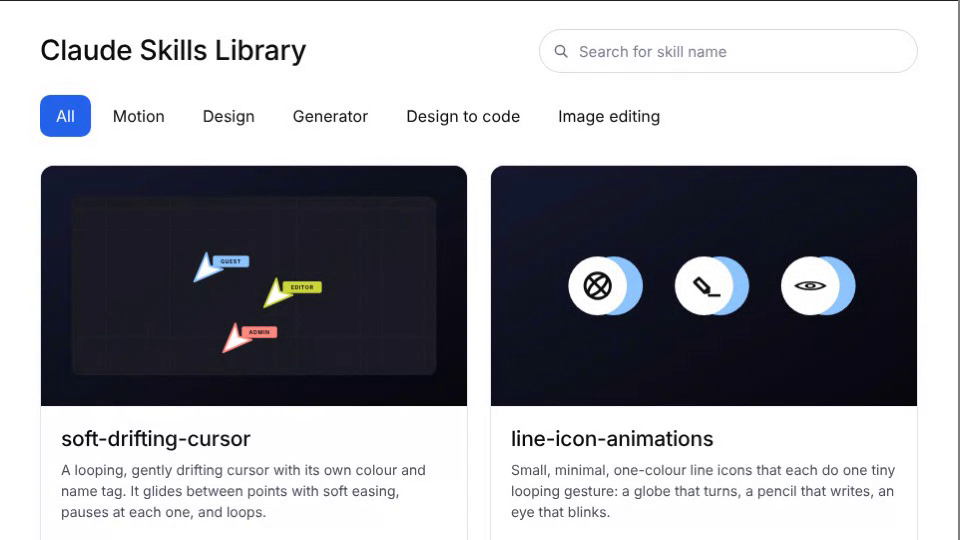
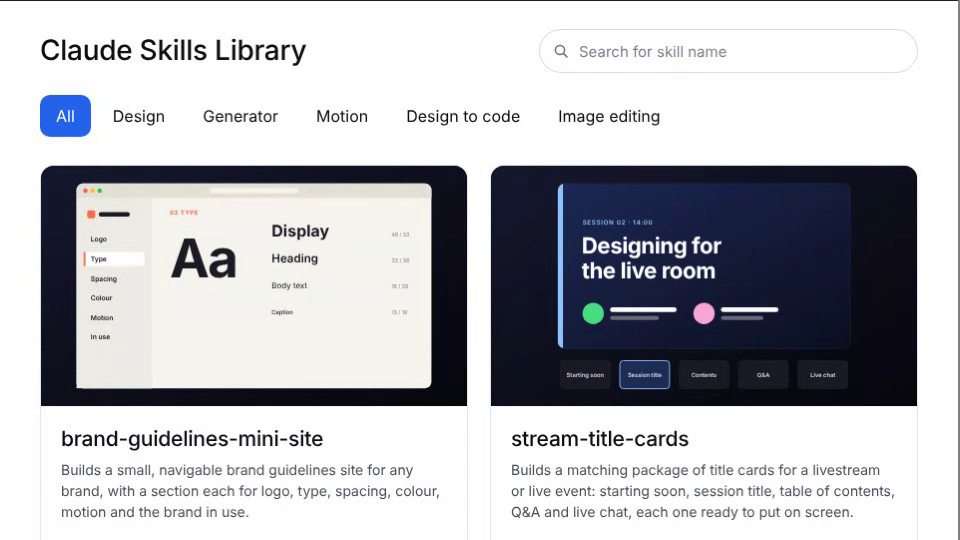
Skills Library: stream-title-cards and brand-guidelines-mini-site entries (#796)
* Skills Library: stream-title-cards entry (starting soon, session title, contents, Q&A, live chat)

Claude-Session: https://claude.ai/code/session_016rpgubnqZgbgFVCTgTmm7G

* Skills Library: brand-guidelines-mini-site entry (logo, type, spacing, colour, motion, in use)

Claude-Session: https://claude.ai/code/session_016rpgubnqZgbgFVCTgTmm7G

---------

diff --git a/skills-library/index.html b/skills-library/index.html
@@ -145,6 +145,22 @@ var ICON={
 };
 var SKILLS=[
   {
+    title:'brand-guidelines-mini-site',
+    desc:'Builds a small, navigable brand guidelines site for any brand, with a section each for logo, type, spacing, colour, motion and the brand in use.',
+    category:'Design', cIcon:'design',
+    use:'Brand guidelines sites', uIcon:'mockup',
+    art:'art/brand-guidelines-mini-site.svg',
+    alt:'A browser window with a sidebar of Logo, Type, Spacing, Colour, Motion and In use, stepping through each section: logo lockups, a type scale, spacing bars, colour swatches, an easing curve and example layouts'
+  },
+  {
+    title:'stream-title-cards',
+    desc:'Builds a matching package of title cards for a livestream or live event: starting soon, session title, table of contents, Q&A and live chat, each one ready to put on screen.',
+    category:'Generator', cIcon:'image',
+    use:'Livestreams and webinars', uIcon:'motion',
+    art:'art/stream-title-cards.svg',
+    alt:'A 16:9 screen cycles through five stream cards: a starting soon countdown, a session title with speakers, an agenda, a Q&A card and a live chat panel, with a tab row below marking each one'
+  },
+  {
     title:'soft-drifting-cursor',
     desc:'A looping, gently drifting cursor with its own colour and name tag. It glides between points with soft easing, pauses at each one, and loops.',
     category:'Motion', cIcon:'motion',
@@ -319,6 +335,7 @@ function render(){
 tabs.addEventListener('click',function(e){var b=e.target.closest('.tab');if(b){cur=b.dataset.c;render()}});
 render();
 var EX={
+'brand-guidelines-mini-site':[['thread-brand-guidelines','Thread Brand Guidelines'],['brand-guidelines-settings','Brand Guidelines Settings']],
 'brand-audit-engine':[['brand-audit-engine','Brand Audit Engine']],
 'fields-scan-overlay-effect':[['https://kristynagottvald.github.io/#805157303765614592','Reprise: Build better demos with AI','examples/reprise-fields-scan.webp','examples/reprise-fields-scan.webp']],
 'industry-swapper':[['https://kristynagottvald.github.io/sketches/direct-mail-engine/','Industry Swapper Plug-in','https://kristynagottvald.github.io/sketches/clips/direct-mail-engine.webp','https://kristynagottvald.github.io/sketches/direct-mail-engine/thumbnail.jpg']],
@@ -332,6 +349,12 @@ var EX={
 'asset-generator-engine':[['blog-banner-studio','Blog Banner Studio'],['conference-post-generator','Conference Post Creator'],['lifecycle-image-engine','Lifecycle Image Studio'],['hero-banner-engine','Banner Template Studio'],['postmark-ribbon-engine','Postmark Awards Ribbon Engine'],['grubclub-end-card','Grubclub End Card Maker'],['https://kristynagottvald.github.io/sketches/ribbon-text/','Postmark Awards','https://kristynagottvald.github.io/sketches/clips/ribbon-text.webp','https://kristynagottvald.github.io/sketches/ribbon-text/thumbnail.jpg'],['https://kristynagottvald.github.io/sketches/pattern-generator/','Pattern Generator','https://kristynagottvald.github.io/sketches/clips/pattern-generator.webp','https://kristynagottvald.github.io/sketches/pattern-generator/thumbnail.jpg']]};
 var RM=window.matchMedia&&matchMedia('(prefers-reduced-motion: reduce)').matches;
 var D={
+'brand-guidelines-mini-site':{saves:'Laying out a brand book page by page and keeping it in step with the real brand',work:["Placing every logo lockup, clear space rule and misuse example on its own page by hand","Copying fonts, sizes, colour values and spacing steps out of design files and checking each one matches","Describing motion in words because a PDF can’t play it, then reissuing the whole book whenever one rule changes"],
+ p:["This skill builds a brand guidelines mini site: one page with a sticky side navigation and six sections, Logo, Type, Spacing, Colour, Motion and In use. It reads the brand from what you give it, such as a Figma link, an existing site, a generator app or a folder of assets, and turns that into a single set of CSS tokens that every section uses.","Logo shows each lockup on light and dark, with clear space and minimum size drawn on, and the ways not to use it. Type shows the typefaces and a live type scale with sizes and line heights. Spacing shows the spacing steps and grid as measured bars. Colour shows each swatch with its name and hex, RGB and CMYK values, approved pairings and contrast ratios, and copies a value when clicked.","Motion plays the brand’s easing curves and durations as small live demos instead of describing them. In use brings it all together in real examples like a social post, a banner and a slide, so people can see the rules applied. Because everything reads from the same tokens, changing a colour or a size once updates every section."],
+ prompts:["Use brand-guidelines-mini-site to build a guidelines site for this brand with logo, type, spacing, colour, motion and in use sections.","Build a brand guidelines mini site from this Figma file, with live motion demos and colour swatches that copy their hex value.","Add an In use section with a social post, a banner and a slide that all follow these guidelines."]},
+'stream-title-cards':{saves:'Designing every holding screen and lower third for a stream from scratch',work:["Designing a starting soon screen, a title card, an agenda, a Q&A slide and a chat overlay one at a time, and keeping them consistent","Retyping the session name, speakers, times and agenda into every card whenever the running order changes","Exporting each card at 16:9 for OBS, StreamYard or Zoom, and wiring up a countdown that actually counts down"],
+ p:["This skill builds a full set of on-screen cards for a livestream, webinar or live event, in one consistent look. You choose which cards the package needs from five options: Starting soon, Session title, Table of contents, Q&A and Live chat.","Starting soon is a holding screen with a live countdown to the start time and a gently looping background, so the stream can go live early. Session title shows the session name, time and each speaker’s name and role. Table of contents lists the agenda as numbered sections and can highlight the one in progress. Q&A invites questions and shows the current one on a card. Live chat leaves room for a chat feed beside the speaker, with a LIVE badge.","Every card shares one set of brand colours, type and spacing, and reads its text from a single list of session details, so changing the title, time or agenda once updates the whole package. Each card renders at 1920×1080 and can be shown full screen as a browser source in OBS or StreamYard, or exported as a still or a short looping clip."],
+ prompts:["Use stream-title-cards to make a livestream package with starting soon, session title, table of contents, Q&A and live chat cards.","Make a starting soon card with a countdown to 2pm and a session title card for two speakers, in our brand colours.","Add a table of contents card from this agenda that highlights the current section, plus a Q&A card for the end."]},
 'soft-drifting-cursor':{saves:'Keyframing a cursor’s path by hand, over and over',work:["Plotting each point a cursor visits and moving it there frame by frame","Tuning the easing so the cursor glides instead of jerking from point to point","Offsetting several cursors so they never move in lockstep, and matching each name tag to its cursor"],
  p:["This skill is only about the cursor. It builds a small pointer that drifts around a scene in a soft, endless loop. The pointer is a simple white arrow with a thin coloured outline, tilted so its tip points down and to the left, with a small name tag trailing up and to the right in the same colour.","Its movement is a list of stops. For each stop you give the position and how long the cursor takes to get there. It eases out of one stop and into the next so it glides rather than snaps, and repeating a position makes it pause there. When it reaches the end, it returns to where it began, so the loop has no jump.","For a more natural drift, the cursor can pick its own targets from a repeatable pattern and curve slightly on the way instead of going in a straight line. Give each cursor its own colour, name and loop length, and several of them will wander at the same time without ever moving in step."],
  prompts:["Use soft-drifting-cursor to add three labelled cursors that drift around this screen and loop.","Give each cursor its own colour, name tag and path, with loop lengths that differ so they never move in step.","Make the cursor glide in a gentle arc between points and pause on each one."]},
@@ -419,6 +442,8 @@ function route(){var m=/^#\/(.+)$/.exec(location.hash),s=m&&SKILLS.filter(functi
 window.addEventListener('hashchange',route);route();
 var STOP='a an the i my me we our you your is am are was be been it its this that these those of to for in on at by with and or but so if as do does did can could would should will how what why when where which who have has had having get got make made want need needs help trouble problem issue issues really very too much long forever take takes taking just some any into from out up down about like using use used tool thing things stuff'.split(' ');
 var GROUPS=[
+['guideline','guidelines','brand','book','brandbook','identity','logo','lockup','type','typography','font','spacing','grid','colour','color','swatch','motion','easing','usage','use','site','microsite','mini','style','styleguide','tokens'],
+['stream','streaming','livestream','live','broadcast','webinar','event','obs','streamyard','twitch','youtube','starting','soon','countdown','title','card','agenda','contents','toc','q&a','qa','question','chat','overlay','lower','third','holding','package','session','speaker'],
 ['widow','orphan','runt','stranded','lonely','hanging','wrap','wrapping','break','typography','typeset','paragraph','heading','headline','text','line','word'],
 ['scan','scanner','field','form','detect','read','reading','agent','overlay','badge','highlight','screen','number','counter'],
 ['mockup','mock','ui','interface','dashboard','card','kit','component','fake','placeholder','chip','toggle','calendar','window','glass'],
